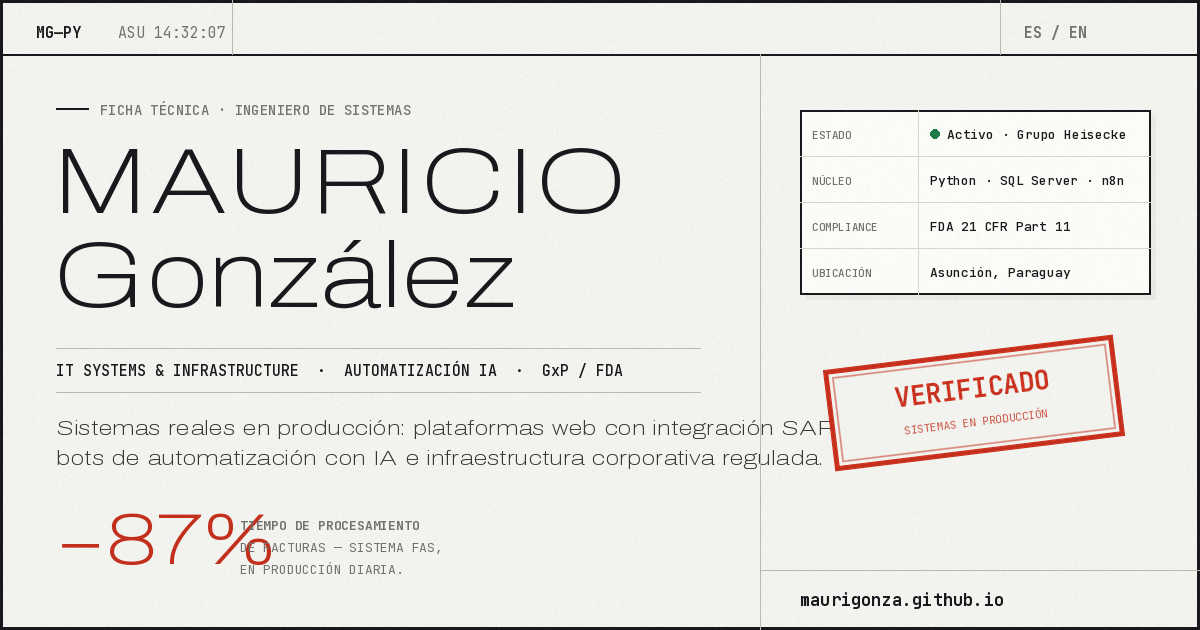
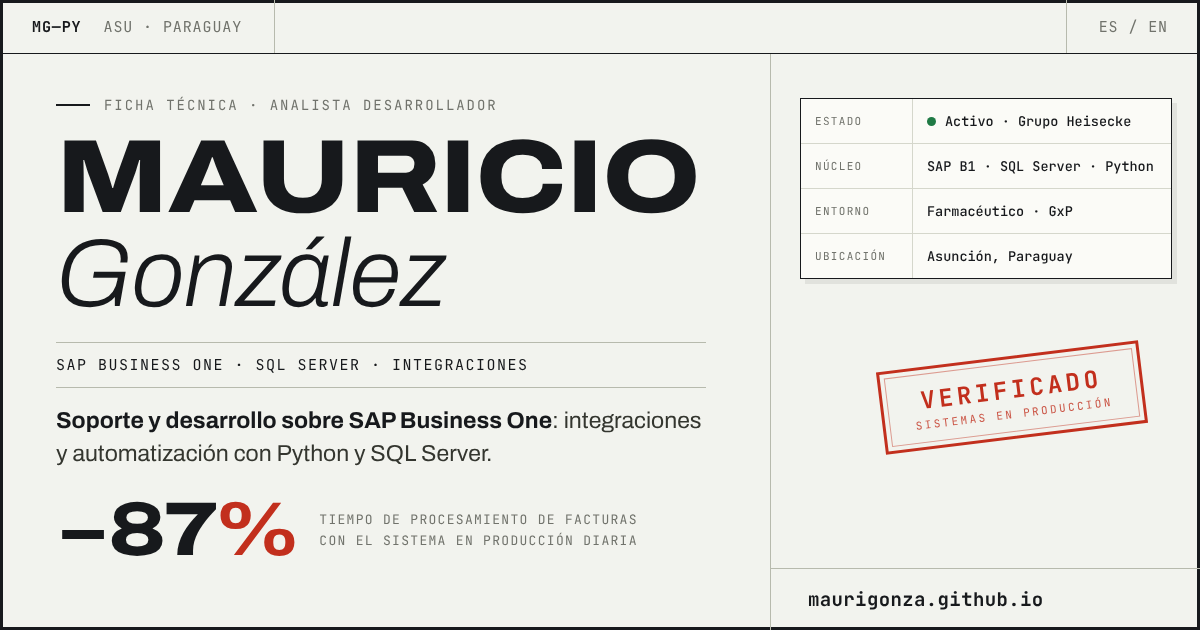
Orientar el portafolio a soporte SAP B1 y quitar afirmaciones sin respaldo
Un cliente de soporte SAP B1 va a ver este link: tiene que mostrar SAP primero y no nombrar sistemas internos ni marcas de seguridad del empleador. Se quitan 'auditoria externa' y 'validado FDA' por falta de evidencia, el -87% se ve sin JS y la og-image se regenera (v=2) para que WhatsApp/LinkedIn no usen la vieja.

Claude-Session: https://claude.ai/code/session_01SXFzjdiL9HggprZqT54Dce

diff --git a/index.html b/index.html
@@ -8,9 +8,9 @@
 
 <meta name="viewport" content="width=device-width, initial-scale=1.0">
 
-<title>Mauricio González — IT Systems Engineer</title>
+<title>Mauricio González — Analista Desarrollador · SAP Business One</title>
 
-<meta name="description" content="IT Systems & Infrastructure Engineer en Asunción, Paraguay. Sistemas en producción: automatización con IA, integración SAP, compliance GxP/FDA.">
+<meta name="description" content="Analista Desarrollador en Asunción, Paraguay. Soporte y desarrollo sobre SAP Business One, SQL Server, integraciones y automatización con Python y n8n. Sistemas reales en producción.">
 
 
 
@@ -20,17 +20,17 @@
 
 <meta property="og:url" content="https://maurigonza.github.io/">
 
-<meta property="og:title" content="Mauricio González — IT Systems Engineer">
+<meta property="og:title" content="Mauricio González — Analista Desarrollador · SAP Business One">
 
-<meta property="og:description" content="Sistemas reales en producción: integración SAP, automatización con IA e infraestructura en entornos farmacéuticos regulados. Python · SQL Server · n8n · GxP/FDA.">
+<meta property="og:description" content="Soporte y desarrollo sobre SAP Business One, integraciones y automatización. Sistemas reales en producción en una planta farmacéutica. SAP B1 · SQL Server · Python · n8n.">
 
-<meta property="og:image" content="https://maurigonza.github.io/og-image.png?v=1">
+<meta property="og:image" content="https://maurigonza.github.io/og-image.png?v=2">
 
 <meta property="og:image:width" content="1200">
 
 <meta property="og:image:height" content="630">
 
-<meta property="og:image:alt" content="Portafolio de Mauricio González — IT Systems Engineer">
+<meta property="og:image:alt" content="Portafolio de Mauricio González — Analista Desarrollador · SAP Business One">
 
 <meta property="og:locale" content="es_PY">
 
@@ -40,11 +40,11 @@
 
 <meta name="twitter:card" content="summary_large_image">
 
-<meta name="twitter:title" content="Mauricio González — IT Systems Engineer">
+<meta name="twitter:title" content="Mauricio González — Analista Desarrollador · SAP Business One">
 
-<meta name="twitter:description" content="Sistemas reales en producción: integración SAP, automatización con IA e infraestructura regulada.">
+<meta name="twitter:description" content="Soporte y desarrollo sobre SAP Business One, integraciones y automatización. Sistemas reales en producción.">
 
-<meta name="twitter:image" content="https://maurigonza.github.io/og-image.png?v=1">
+<meta name="twitter:image" content="https://maurigonza.github.io/og-image.png?v=2">
 
 
 
@@ -390,7 +390,9 @@ section{border-bottom:1px solid var(--line-strong);position:relative;}
 
 .ptag:hover{border-color:var(--ink);transform:translateY(-2px);}
 
-.pf-data{padding:42px 32px;display:flex;flex-direction:column;}
+/* padding-top extra: el sello "En producción" (absoluto, arriba a la derecha) tapaba la cifra de impacto */
+
+.pf-data{padding:84px 32px 42px;display:flex;flex-direction:column;}
 
 .pfd-row{display:grid;grid-template-columns:1fr 1fr;gap:14px;padding:13px 0;border-bottom:1px solid var(--line);}
 
@@ -556,6 +558,8 @@ body.en .en-txt{display:inline;}
 
   .pf-main{border-right:none;border-bottom:1px solid var(--line);}
 
+  .pf-data{padding-top:42px;}
+
   .proj-grid{grid-template-columns:1fr;gap:18px;}
 
   .proj-card:nth-child(2){margin-top:0;}
@@ -642,17 +646,17 @@ body.en .en-txt{display:inline;}
 
       <div class="hero-main">
 
-        <div class="hero-eyebrow rev on"><span class="es-txt">Ficha técnica · Ingeniero de sistemas</span><span class="en-txt">Technical dossier · Systems engineer</span></div>
+        <div class="hero-eyebrow rev on"><span class="es-txt">Ficha técnica · Analista desarrollador</span><span class="en-txt">Technical dossier · Developer &amp; IT analyst</span></div>
 
         <h1 class="hero-name display rev on d1"><span id="scramble">Mauricio</span><br><span class="thin">González</span></h1>
 
-        <div class="hero-role rev on d2"><span class="es-txt">IT Systems &amp; Infrastructure · Automatización IA · Compliance GxP/FDA</span><span class="en-txt">IT Systems &amp; Infrastructure · AI Automation · GxP/FDA Compliance</span></div>
+        <div class="hero-role rev on d2"><span class="es-txt">SAP Business One · SQL Server · Integraciones y automatización</span><span class="en-txt">SAP Business One · SQL Server · Integrations &amp; automation</span></div>
 
         <p class="hero-desc rev on d2">
 
-          <span class="es-txt">Diseño y opero <strong>sistemas reales en producción</strong>: plataformas web con integración SAP, bots de automatización con IA e infraestructura corporativa en entornos farmacéuticos regulados. Actualmente en <strong>Grupo Heisecke / FUSQUIM</strong>, Asunción, Paraguay.</span>
+          <span class="es-txt">Doy <strong>soporte y desarrollo sobre SAP Business One</strong>: integraciones, automatizaciones y consultas con Python y SQL Server, en <strong>sistemas reales en producción</strong> dentro de un entorno farmacéutico regulado. Actualmente en <strong>Grupo Heisecke / FUSQUIM</strong>, Paraguay.</span>
 
-          <span class="en-txt">I design and operate <strong>real production systems</strong>: web platforms with SAP integration, AI-powered automation bots and corporate infrastructure in regulated pharmaceutical environments. Currently at <strong>Grupo Heisecke / FUSQUIM</strong>, Asunción, Paraguay.</span>
+          <span class="en-txt">I provide <strong>SAP Business One support and development</strong>: integrations, automations and queries with Python and SQL Server, on <strong>real production systems</strong> in a regulated pharmaceutical environment. Currently at <strong>Grupo Heisecke / FUSQUIM</strong>, Paraguay.</span>
 
         </p>
 
@@ -690,15 +694,15 @@ body.en .en-txt{display:inline;}
 
             <div class="doc-k"><span class="es-txt">Núcleo</span><span class="en-txt">Core</span></div>
 
-            <div class="doc-v">Python · SQL Server · n8n</div>
+            <div class="doc-v">SAP B1 · SQL Server · Python</div>
 
           </div>
 
           <div class="doc-row">
 
-            <div class="doc-k">Compliance</div>
+            <div class="doc-k"><span class="es-txt">Entorno</span><span class="en-txt">Environment</span></div>
 
-            <div class="doc-v">GxP · FDA 21 CFR Part 11</div>
+            <div class="doc-v"><span class="es-txt">Farmacéutico · GxP</span><span class="en-txt">Pharmaceutical · GxP</span></div>
 
           </div>
 
@@ -706,7 +710,7 @@ body.en .en-txt{display:inline;}
 
             <div class="doc-k"><span class="es-txt">Formación</span><span class="en-txt">Education</span></div>
 
-            <div class="doc-v"><span class="es-txt">Ing. Informática · UNIDA (4°)</span><span class="en-txt">Computer Eng. · UNIDA (4th yr)</span></div>
+            <div class="doc-v"><span class="es-txt">Ing. Informática · UNIDA (3.º)</span><span class="en-txt">Computer Eng. · UNIDA (3rd yr)</span></div>
 
           </div>
 
@@ -716,9 +720,9 @@ body.en .en-txt{display:inline;}
 
         <div class="hero-metric rev-r on d3">
 
-          <div class="hm-num" id="counter" data-target="87">−0<em>%</em></div>
+          <div class="hm-num" id="counter" data-target="87">−87<em>%</em></div>
 
-          <div class="hm-label"><span class="es-txt">Tiempo de procesamiento de facturas tras implementar FAS, mi sistema estrella en producción.</span><span class="en-txt">Invoice processing time after deploying FAS, my flagship production system.</span></div>
+          <div class="hm-label"><span class="es-txt">Tiempo de procesamiento de facturas tras implementar el sistema de aprobación que desarrollé, hoy en producción.</span><span class="en-txt">Invoice processing time after deploying the approval system I built, now in production.</span></div>
 
         </div>
 
@@ -738,9 +742,9 @@ body.en .en-txt{display:inline;}
 
   <div class="strip-inner">
 
-    <span>Python / Flask</span><span>SQL Server</span><span>Docker</span><span>n8n</span><span>SAP Business One API</span><span>Active Directory</span><span>NGINX</span><span>OpenAI API</span><span>Kaspersky EDR</span><span>GxP / FDA 21 CFR Part 11</span><span>SIFEN / eKuatia</span><span>Telegram Bot API</span>
+    <span>Python / Flask</span><span>SQL Server</span><span>Docker</span><span>n8n</span><span>SAP Business One</span><span>Active Directory</span><span>NGINX</span><span>OpenAI API</span><span>GxP / FDA 21 CFR Part 11</span><span>SIFEN / eKuatia</span><span>Telegram Bot API</span>
 
-    <span>Python / Flask</span><span>SQL Server</span><span>Docker</span><span>n8n</span><span>SAP Business One API</span><span>Active Directory</span><span>NGINX</span><span>OpenAI API</span><span>Kaspersky EDR</span><span>GxP / FDA 21 CFR Part 11</span><span>SIFEN / eKuatia</span><span>Telegram Bot API</span>
+    <span>Python / Flask</span><span>SQL Server</span><span>Docker</span><span>n8n</span><span>SAP Business One</span><span>Active Directory</span><span>NGINX</span><span>OpenAI API</span><span>GxP / FDA 21 CFR Part 11</span><span>SIFEN / eKuatia</span><span>Telegram Bot API</span>
 
   </div>
 
@@ -774,11 +778,11 @@ body.en .en-txt{display:inline;}
 
       <div class="perfil-text rev-l">
 
-        <p><span class="es-txt">Soy <strong>IT Systems &amp; Infrastructure Engineer</strong> con más de <strong>3 años</strong> de trayectoria entre soporte, infraestructura y desarrollo. Mi diferencial: no me quedo en el mantenimiento — <span class="hl">construyo sistemas que la empresa usa todos los días</span>.</span><span class="en-txt">I'm an <strong>IT Systems &amp; Infrastructure Engineer</strong> with over <strong>3 years</strong> across support, infrastructure and development. My edge: I don't stop at maintenance — <span class="hl">I build systems the company relies on every day</span>.</span></p>
+        <p><span class="es-txt">Soy <strong>Analista Desarrollador</strong> con más de <strong>3 años</strong> en TI, entre soporte, infraestructura y desarrollo. Mi diferencial: no me quedo en el mantenimiento — <span class="hl">construyo sistemas que la empresa usa todos los días</span>.</span><span class="en-txt">I'm a <strong>Developer &amp; IT Analyst</strong> with over <strong>3 years</strong> in IT, across support, infrastructure and development. My edge: I don't stop at maintenance — <span class="hl">I build systems the company relies on every day</span>.</span></p>
 
-        <p><span class="es-txt">En <strong>Grupo Heisecke / FUSQUIM</strong> (planta farmacéutica, Asunción) administro Active Directory y seguridad endpoint. Ahí mismo desarrollé <strong>FAS</strong>, un sistema de aprobación de facturas que hoy corre en producción: integración SAP, OCR, facturación electrónica SIFEN, auditado externamente y validado bajo FDA 21 CFR Part 11.</span><span class="en-txt">At <strong>Grupo Heisecke / FUSQUIM</strong> (pharmaceutical plant, Asunción) I manage Active Directory and endpoint security. There I also built <strong>FAS</strong>, an invoice approval system now running in production: SAP integration, OCR, SIFEN e-invoicing, externally audited and validated under FDA 21 CFR Part 11.</span></p>
+        <p><span class="es-txt">En <strong>Grupo Heisecke / FUSQUIM</strong> (planta farmacéutica en Luque) empecé en soporte TI y desde enero de 2026 trabajo como Analista Desarrollador: soporte y desarrollo sobre <strong>SAP Business One</strong> y SQL Server. Ahí desarrollé un <strong>sistema de aprobación de facturas</strong> integrado a SAP B1 que hoy corre en producción: lectura automática de PDF, QR y OCR, consulta de comprobantes en SIFEN/eKuatia y una revisión de seguridad con sus hallazgos corregidos.</span><span class="en-txt">At <strong>Grupo Heisecke / FUSQUIM</strong> (pharmaceutical plant in Luque) I started in IT support and since January 2026 I have worked as a Developer &amp; IT Analyst: support and development on <strong>SAP Business One</strong> and SQL Server. There I built an <strong>invoice approval system</strong> integrated with SAP B1, now running in production: automated PDF, QR and OCR reading, electronic-invoice lookup in SIFEN/eKuatia, and a security review with its findings fixed.</span></p>
 
-        <p><span class="es-txt">Curso el 4° año de <strong>Ingeniería en Informática</strong> en UNIDA y me certifiqué en AWS Generative AI Advanced (2026).</span><span class="en-txt">I'm a 4th-year <strong>Computer Engineering</strong> student at UNIDA, AWS Generative AI Advanced certified (2026).</span></p>
+        <p><span class="es-txt">Curso el 3.er año de <strong>Ingeniería en Informática</strong> en la UNIDA y en 2026 completé el programa Generative AI Advanced de AWS Entrena Paraguay.</span><span class="en-txt">I'm a 3rd-year <strong>Computer Engineering</strong> student at UNIDA, and in 2026 I completed the AWS Entrena Paraguay Generative AI Advanced program.</span></p>
 
       </div>
 
@@ -788,9 +792,9 @@ body.en .en-txt{display:inline;}
 
           <div class="proto-code">CAP—01</div>
 
-          <div class="proto-t"><span class="es-txt">Desarrollo de sistemas</span><span class="en-txt">Systems development</span></div>
+          <div class="proto-t"><span class="es-txt">Soporte y desarrollo SAP B1</span><span class="en-txt">SAP B1 support &amp; development</span></div>
 
-          <div class="proto-d"><span class="es-txt">Aplicaciones web Flask + SQL Server + Docker con integración SAP Business One, OCR y facturación electrónica SIFEN/eKuatia.</span><span class="en-txt">Flask + SQL Server + Docker web apps with SAP Business One integration, OCR and SIFEN/eKuatia e-invoicing.</span></div>
+          <div class="proto-d"><span class="es-txt">Consultas y procedimientos almacenados en SQL Server, alertas por email disparadas por documentos de SAP, diagnóstico de procedimientos y add-ons en producción y validación de migraciones de versión.</span><span class="en-txt">SQL Server queries and stored procedures, email alerts triggered by SAP documents, troubleshooting of production procedures and add-ons, and version-upgrade validation.</span></div>
 
         </div>
 
@@ -798,9 +802,9 @@ body.en .en-txt{display:inline;}
 
           <div class="proto-code">CAP—02</div>
 
-          <div class="proto-t"><span class="es-txt">Automatización &amp; IA</span><span class="en-txt">Automation &amp; AI</span></div>
+          <div class="proto-t"><span class="es-txt">Desarrollo e integraciones</span><span class="en-txt">Development &amp; integrations</span></div>
 
-          <div class="proto-d"><span class="es-txt">Flujos n8n en producción, bots Telegram stateful, OpenAI API y notificaciones multicanal integradas a email y planillas.</span><span class="en-txt">Production n8n workflows, stateful Telegram bots, OpenAI API and multi-channel notifications wired to email and spreadsheets.</span></div>
+          <div class="proto-d"><span class="es-txt">Aplicaciones web Flask + SQL Server + Docker integradas a SAP Business One, SharePoint y SIFEN/eKuatia, con lectura automática de PDF, QR y OCR.</span><span class="en-txt">Flask + SQL Server + Docker web apps integrated with SAP Business One, SharePoint and SIFEN/eKuatia, with automated PDF, QR and OCR reading.</span></div>
 
         </div>
 
@@ -808,9 +812,9 @@ body.en .en-txt{display:inline;}
 
           <div class="proto-code">CAP—03</div>
 
-          <div class="proto-t"><span class="es-txt">Infraestructura &amp; compliance</span><span class="en-txt">Infrastructure &amp; compliance</span></div>
+          <div class="proto-t"><span class="es-txt">Automatización e infraestructura</span><span class="en-txt">Automation &amp; infrastructure</span></div>
 
-          <div class="proto-d"><span class="es-txt">Active Directory (GPOs, OUs, auditoría), Kaspersky Security Center, firewall Hillstone y validación de sistemas bajo FDA 21 CFR Part 11 / UE Anexo 11.</span><span class="en-txt">Active Directory (GPOs, OUs, auditing), Kaspersky Security Center, Hillstone firewall and system validation under FDA 21 CFR Part 11 / EU Annex 11.</span></div>
+          <div class="proto-d"><span class="es-txt">Flujos n8n en producción, bots de Telegram y OpenAI API con notificaciones a email y planillas; Active Directory (GPOs, OUs, permisos) y seguridad perimetral y endpoint.</span><span class="en-txt">Production n8n workflows, Telegram bots and OpenAI API with notifications to email and spreadsheets; Active Directory (GPOs, OUs, permissions) and perimeter and endpoint security.</span></div>
 
         </div>
 
@@ -896,11 +900,11 @@ body.en .en-txt{display:inline;}
 
           <li class="core">Docker · NGINX</li>
 
-          <li>Kaspersky EDR</li>
+          <li><span class="es-txt">Seguridad endpoint</span><span class="en-txt">Endpoint security</span></li>
 
           <li>Linux · Windows Server</li>
 
-          <li>Hillstone Firewall</li>
+          <li><span class="es-txt">Seguridad perimetral</span><span class="en-txt">Perimeter security</span></li>
 
         </ul>
 
@@ -912,7 +916,7 @@ body.en .en-txt{display:inline;}
 
         <ul>
 
-          <li class="core">SAP Business One API</li>
+          <li class="core">SAP Business One</li>
 
           <li class="core">SIFEN / eKuatia</li>
 
@@ -962,25 +966,49 @@ body.en .en-txt{display:inline;}
 
       <div class="exp-entry rev">
 
-        <div class="exp-when">JUN 2025 —<br><span class="es-txt">ACTUALIDAD</span><span class="en-txt">PRESENT</span><br><span class="tag">● <span class="es-txt">En curso</span><span class="en-txt">Active</span></span></div>
+        <div class="exp-when"><span class="es-txt">ENE</span><span class="en-txt">JAN</span> 2026 —<br><span class="es-txt">ACTUALIDAD</span><span class="en-txt">PRESENT</span><br><span class="tag">● <span class="es-txt">En curso</span><span class="en-txt">Active</span></span></div>
 
         <div>
 
           <div class="exp-co">Grupo Heisecke &amp; Cía. / FUSQUIM</div>
 
-          <div class="exp-ro">IT Systems &amp; Infrastructure Engineer</div>
+          <div class="exp-ro"><span class="es-txt">Analista Desarrollador</span><span class="en-txt">Developer &amp; IT Analyst</span></div>
 
           <ul class="exp-ul">
 
-            <li><span class="es-txt">Desarrollo y operación de <strong>FAS</strong>, sistema de aprobación de facturas en producción con integración SAP, OCR y SIFEN — redujo el tiempo de procesamiento un 87%.</span><span class="en-txt">Built and operate <strong>FAS</strong>, a production invoice approval system with SAP, OCR and SIFEN integration — cut processing time by 87%.</span></li>
+            <li><span class="es-txt">Desarrollo y operación de un <strong>sistema de aprobación de facturas</strong> integrado a SAP Business One, SharePoint y SIFEN/eKuatia, en producción diaria — redujo el tiempo de procesamiento un 87%.</span><span class="en-txt">Built and operate an <strong>invoice approval system</strong> integrated with SAP Business One, SharePoint and SIFEN/eKuatia, in daily production — cut processing time by 87%.</span></li>
+
+            <li><span class="es-txt">Validación de la migración de <strong>SAP Business One 9.2 → 10.0</strong>: checklist de pruebas previas a producción e informes formales por módulo, en coordinación con proveedores externos.</span><span class="en-txt"><strong>SAP Business One 9.2 → 10.0</strong> upgrade validation: pre-production test checklist and formal per-module test reports, coordinated with external vendors.</span></li>
+
+            <li><span class="es-txt">Procedimientos almacenados en SQL Server que envían alertas por email al registrarse documentos en SAP, con destinatarios según el tipo de compra.</span><span class="en-txt">SQL Server stored procedures that send email alerts when documents are posted in SAP, routed by purchase type.</span></li>
+
+            <li><span class="es-txt">Diagnóstico de procedimientos almacenados y add-ons de SAP en producción (órdenes de fabricación), junto al proveedor.</span><span class="en-txt">Troubleshooting of SAP stored procedures and add-ons in production (production orders), together with the vendor.</span></li>
+
+            <li><span class="es-txt">Soporte a usuarios de SAP Business One y a sistemas de planta vinculados a órdenes de trabajo.</span><span class="en-txt">Support for SAP Business One users and plant systems tied to work orders.</span></li>
+
+          </ul>
+
+        </div>
+
+      </div>
+
+      <div class="exp-entry rev">
+
+        <div class="exp-when">JUN 2025 —<br><span class="es-txt">ENE</span><span class="en-txt">JAN</span> 2026</div>
+
+        <div>
+
+          <div class="exp-co">Grupo Heisecke &amp; Cía. / FUSQUIM</div>
+
+          <div class="exp-ro"><span class="es-txt">Soporte TI</span><span class="en-txt">IT Support</span></div>
+
+          <ul class="exp-ul">
 
             <li><span class="es-txt">Administración de Active Directory: usuarios, grupos, GPOs, OUs, permisos y auditoría de accesos.</span><span class="en-txt">Active Directory administration: users, groups, GPOs, OUs, permissions and access auditing.</span></li>
 
-            <li><span class="es-txt">Seguridad endpoint con Kaspersky Security Center: despliegue de agentes, políticas y respuesta a incidentes.</span><span class="en-txt">Endpoint security with Kaspersky Security Center: agent deployment, policies and incident response.</span></li>
+            <li><span class="es-txt">Seguridad perimetral y endpoint: políticas, despliegue de agentes y respuesta a incidentes.</span><span class="en-txt">Perimeter and endpoint security: policies, agent deployment and incident response.</span></li>
 
             <li><span class="es-txt">Bot de mesa de ayuda IT en n8n + Telegram, en producción y presentado a nivel directorio.</span><span class="en-txt">n8n + Telegram IT helpdesk bot, in production and presented at board level.</span></li>
-
-            <li><span class="es-txt">Validación de sistemas bajo FDA 21 CFR Part 11 y UE Anexo 11 en planta farmacéutica.</span><span class="en-txt">System validation under FDA 21 CFR Part 11 and EU Annex 11 in a pharmaceutical plant.</span></li>
 
           </ul>
 
@@ -1070,9 +1098,9 @@ body.en .en-txt{display:inline;}
 
         <div class="proj-code">SYS—01</div>
 
-        <div class="proj-name">FAS — Fusquim<br>Approval System</div>
+        <div class="proj-name"><span class="es-txt">Aprobación de<br>facturas · SAP B1</span><span class="en-txt">Invoice<br>approval · SAP B1</span></div>
 
-        <p class="proj-desc"><span class="es-txt">Plataforma web de aprobación de facturas de proveedores para Grupo Heisecke / FUSQUIM. Autenticación multirrol, flujo de aprobación en dos niveles, OCR de documentos, integración con SAP Business One, SharePoint y facturación electrónica SIFEN/eKuatia. Superó una <strong>auditoría de seguridad externa</strong> (resolución de race conditions, SSRF e IDOR) y opera bajo compliance GxP / FDA 21 CFR Part 11.</span><span class="en-txt">Web-based supplier invoice approval platform for Grupo Heisecke / FUSQUIM. Multi-role auth, two-level approval workflow, document OCR, integration with SAP Business One, SharePoint and SIFEN/eKuatia e-invoicing. Passed an <strong>external security audit</strong> (race conditions, SSRF and IDOR remediated) and operates under GxP / FDA 21 CFR Part 11 compliance.</span></p>
+        <p class="proj-desc"><span class="es-txt">Plataforma web de aprobación de facturas de proveedores para Grupo Heisecke / FUSQUIM. Autenticación multirrol, flujo de aprobación en dos niveles, lectura automática de PDF, QR y OCR, integración con <strong>SAP Business One</strong> y SharePoint, y consulta de comprobantes electrónicos en SIFEN/eKuatia. Pasó una <strong>revisión de seguridad</strong> con sus hallazgos corregidos (race conditions, SSRF, IDOR) y tiene protección CSRF. En desarrollo: módulo de recepción de mercadería en depósito.</span><span class="en-txt">Web-based supplier invoice approval platform for Grupo Heisecke / FUSQUIM. Multi-role auth, two-level approval workflow, automated PDF, QR and OCR reading, integration with <strong>SAP Business One</strong> and SharePoint, and electronic-invoice lookup in SIFEN/eKuatia. Went through a <strong>security review</strong> with its findings fixed (race conditions, SSRF, IDOR) and has CSRF protection. In progress: warehouse goods-receipt module.</span></p>
 
         <div class="ptags"><span class="ptag">Python / Flask</span><span class="ptag">SQL Server</span><span class="ptag">Docker</span><span class="ptag">NGINX</span><span class="ptag">SAP B1 API</span><span class="ptag">OCR</span><span class="ptag">SIFEN</span></div>
 
@@ -1084,9 +1112,9 @@ body.en .en-txt{display:inline;}
 
         <div class="pfd-row"><div class="pfd-k"><span class="es-txt">Métrica</span><span class="en-txt">Metric</span></div><div class="pfd-v"><span class="es-txt">Tiempo de procesamiento</span><span class="en-txt">Processing time</span></div></div>
 
-        <div class="pfd-row"><div class="pfd-k"><span class="es-txt">Auditoría</span><span class="en-txt">Audit</span></div><div class="pfd-v"><span class="es-txt">Externa · Aprobada</span><span class="en-txt">External · Passed</span></div></div>
+        <div class="pfd-row"><div class="pfd-k"><span class="es-txt">Seguridad</span><span class="en-txt">Security</span></div><div class="pfd-v"><span class="es-txt">Revisada y corregida</span><span class="en-txt">Reviewed &amp; fixed</span></div></div>
 
-        <div class="pfd-row"><div class="pfd-k">Compliance</div><div class="pfd-v">FDA 21 CFR Part 11</div></div>
+        <div class="pfd-row"><div class="pfd-k"><span class="es-txt">Integra</span><span class="en-txt">Integrates</span></div><div class="pfd-v">SAP B1 · SharePoint · SIFEN</div></div>
 
         <div class="pfd-row"><div class="pfd-k"><span class="es-txt">Estado</span><span class="en-txt">Status</span></div><div class="pfd-v" style="color:var(--ok);">● <span class="es-txt">Producción diaria</span><span class="en-txt">Daily production</span></div></div>
 
@@ -1160,6 +1188,8 @@ body.en .en-txt{display:inline;}
 
       <div class="cert-row"><div class="cert-iss">AWS Entrena Paraguay</div><div class="cert-name"><span class="es-txt">IA y Nube para Empresas</span><span class="en-txt">AI and Cloud for Business</span></div><div class="cert-yr">2026</div></div>
 
+      <div class="cert-row"><div class="cert-iss">Cisco NetAcad</div><div class="cert-name">Python Essentials 1 &amp; 2 <small><span class="es-txt">· cursos completados</span><span class="en-txt">· completed courses</span></small></div><div class="cert-yr">2026</div></div>
+
       <div class="cert-row"><div class="cert-iss">Udemy</div><div class="cert-name"><span class="es-txt">N8N: Automatizaciones &amp; Agentes IA</span><span class="en-txt">N8N: Automations &amp; AI Agents</span> <small>· 19 h</small></div><div class="cert-yr">2025</div></div>
 
       <div class="cert-row"><div class="cert-iss">Udemy</div><div class="cert-name"><span class="es-txt">Active Directory: de Cero a Arquitecto</span><span class="en-txt">Active Directory: Zero to Architect</span> <small>· 48.5 h</small></div><div class="cert-yr">2025</div></div>
@@ -1230,7 +1260,7 @@ body.en .en-txt{display:inline;}
 
       <div class="hand"><span class="es-txt">Diseñado y escrito a mano en Asunción — sin plantillas</span><span class="en-txt">Designed and hand-coded in Asunción — no templates</span></div>
 
-      <div>Rev 2026.07</div>
+      <div>Rev 2026.10</div>
 
     </div>
 
@@ -1359,6 +1389,10 @@ if(!reduced){
 // ---------- contador -87% ----------
 
 var counted = false;
+
+// El HTML ya trae −87% para que se lea sin JavaScript; si va a haber animación, arranca desde 0.
+
+if(!reduced){ document.getElementById('counter').innerHTML = '−0<em>%</em>'; }
 
 function runCounter(){
 
